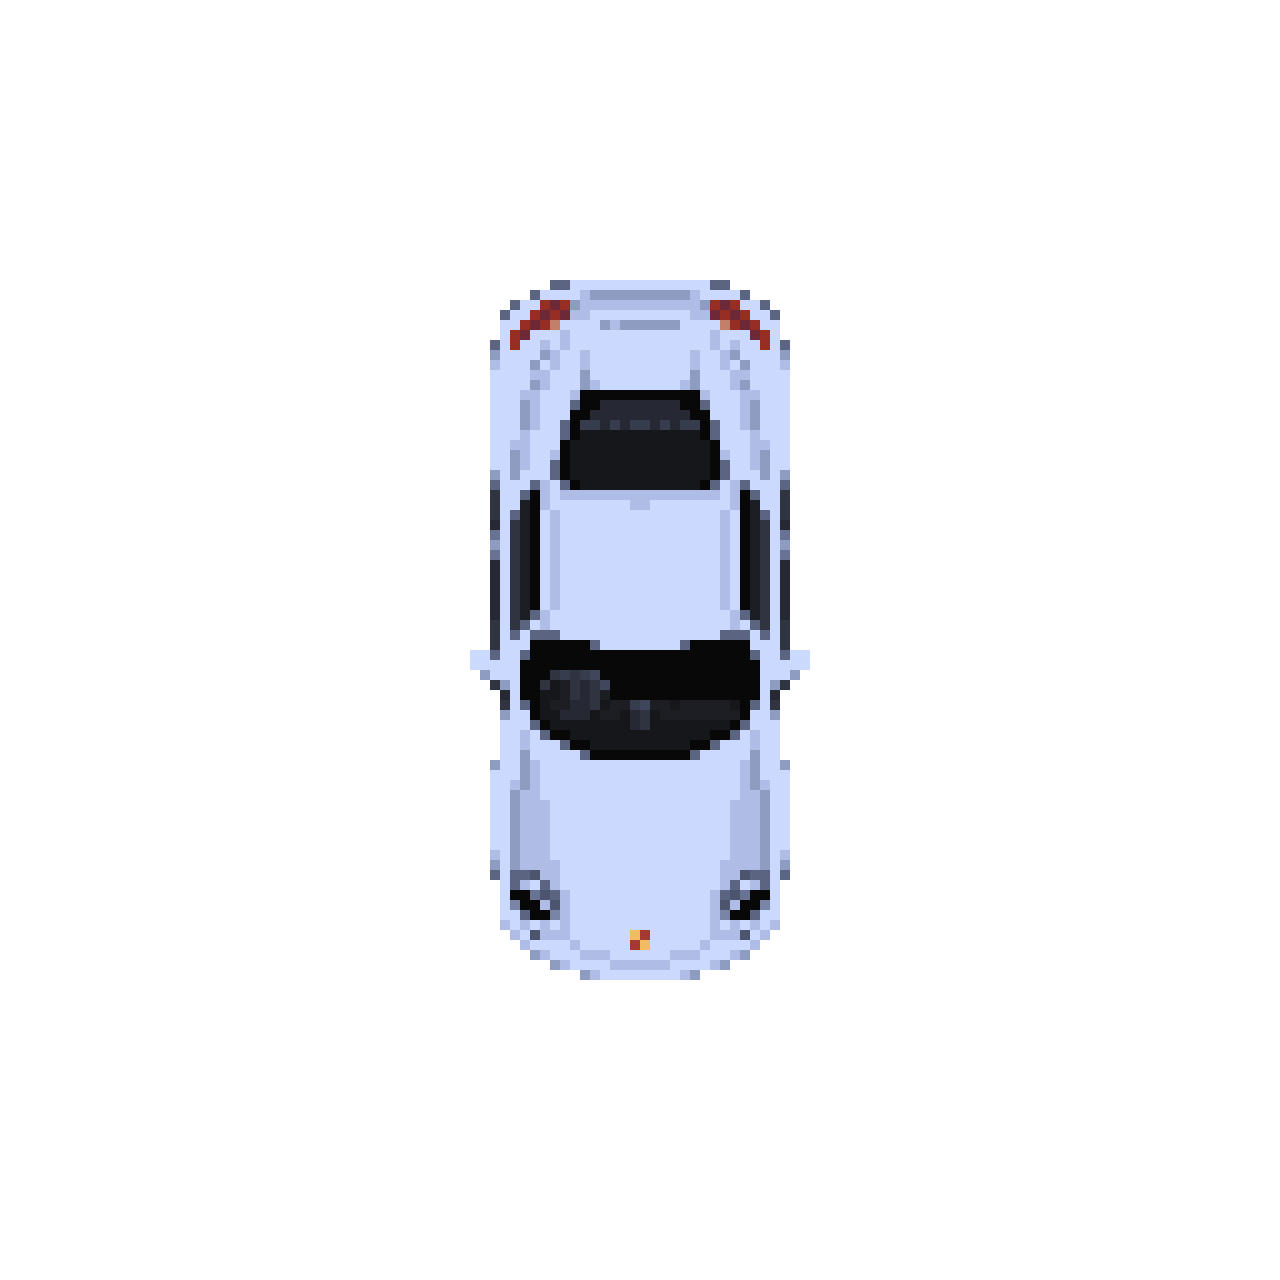
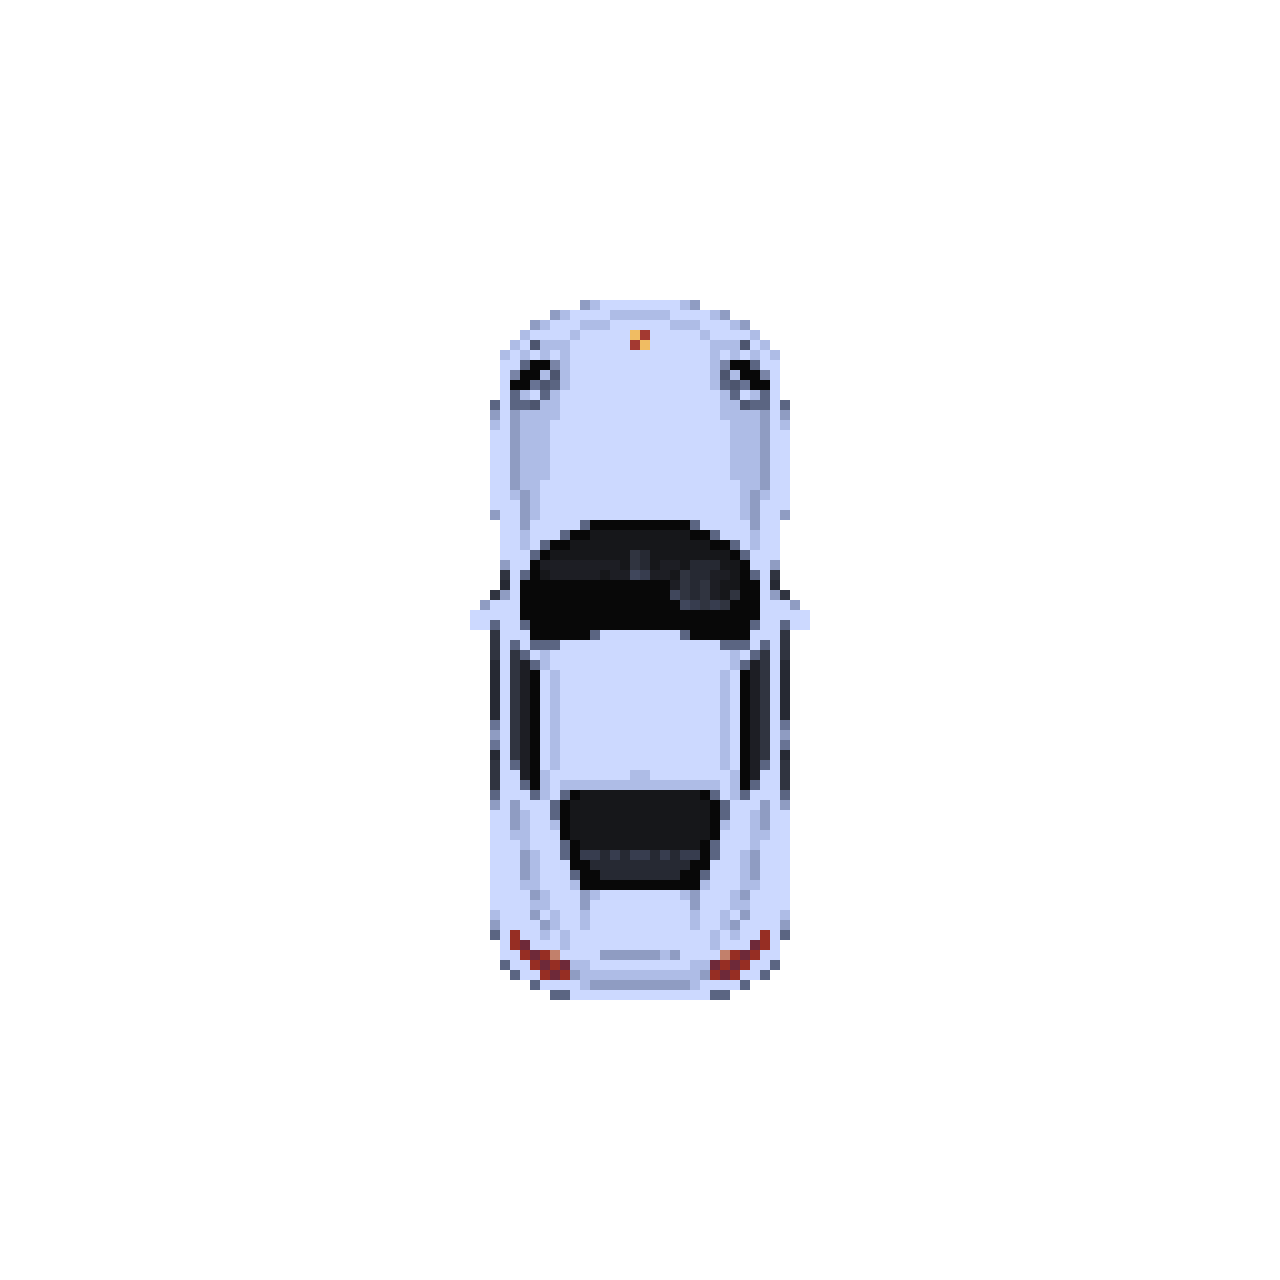
working

Changed region(s): [[0.3438, 0.2188, 0.6562, 0.7812]]

diff --git a/Game1.cs b/Game1.cs
@@ -1,6 +1,7 @@
 using Microsoft.Xna.Framework;
 using Microsoft.Xna.Framework.Graphics;
 using Microsoft.Xna.Framework.Input;
+using System;
 
 namespace MonoGame1_5___Summative
 {
@@ -10,14 +11,20 @@ namespace MonoGame1_5___Summative
         private SpriteBatch _spriteBatch;
 
         Texture2D roadTexture;
+        Texture2D porscheTexture;
 
         Rectangle window;
         Rectangle roadRect;
         Rectangle roadRect2;
+        Rectangle porscheRect;
 
         Vector2 roadSpeed;
+        Vector2 porscheSpeed;
 
         int passes;
+
+        float seconds;
+
         public Game1()
         {
             _graphics = new GraphicsDeviceManager(this);
@@ -38,10 +45,14 @@ namespace MonoGame1_5___Summative
 
             roadRect = new Rectangle(0, 0, window.Width, window.Height);
             roadRect2 = new Rectangle(0, -697, window.Width, window.Height);
-            roadSpeed = new Vector2(0, -9);
+            roadSpeed = new Vector2(0, -10);
+
+            porscheRect = new Rectangle(210, 450, 256, 256);
+            porscheSpeed = new Vector2(0, 3);
 
             passes = 0;
 
+            seconds = 0;
             base.Initialize();
         }
 
@@ -50,6 +61,7 @@ namespace MonoGame1_5___Summative
             _spriteBatch = new SpriteBatch(GraphicsDevice);
 
             roadTexture = Content.Load<Texture2D>("road");
+            porscheTexture = Content.Load<Texture2D>("pixel-porsche");
 
             // TODO: use this.Content to load your game content here
         }
@@ -60,25 +72,29 @@ namespace MonoGame1_5___Summative
                 Exit();
 
             // TODO: Add your update logic here
+
+            seconds += (float)gameTime.ElapsedGameTime.TotalSeconds;
+            if (seconds <= 5)
+            {
+                porscheRect.Y -= (int)porscheSpeed.Y;
+                roadRect.Y -= (int)roadSpeed.Y;
+                if (roadRect.Top > window.Height)
+                {
+                    passes++;
+                    roadRect.Y -= roadRect.Height + 694;
+                }
+                roadRect2.Y -= (int)roadSpeed.Y;
+                if (roadRect2.Top > window.Height)
+                {
+                    passes++;
+                    roadRect2.Y -= roadRect2.Height + 694;
+                }
+            }
+            else
+            {
+                roadSpeed.Y = 0;
+            }
             
-            roadRect.Y -= (int)roadSpeed.Y;
-            if (roadRect.Top > window.Height)
-            {
-                passes++;
-                roadRect.Y -= roadRect.Height + 694;
-            }
-            roadRect2.Y -= (int)roadSpeed.Y;
-            if (roadRect2.Top > window.Height)
-            {
-                passes++;
-                roadRect2.Y -= roadRect2.Height + 694;
-            }
-
-            if (passes >= 2)
-            {
-                
-            }
-
             base.Update(gameTime);
         }
 
@@ -89,10 +105,10 @@ namespace MonoGame1_5___Summative
             // TODO: Add your drawing code here
             _spriteBatch.Begin();
 
+
             _spriteBatch.Draw(roadTexture, roadRect, Color.White);
             _spriteBatch.Draw(roadTexture, roadRect2, Color.White);
-
-
+            _spriteBatch.Draw(porscheTexture, porscheRect, Color.White);
 
 
             _spriteBatch.End();
